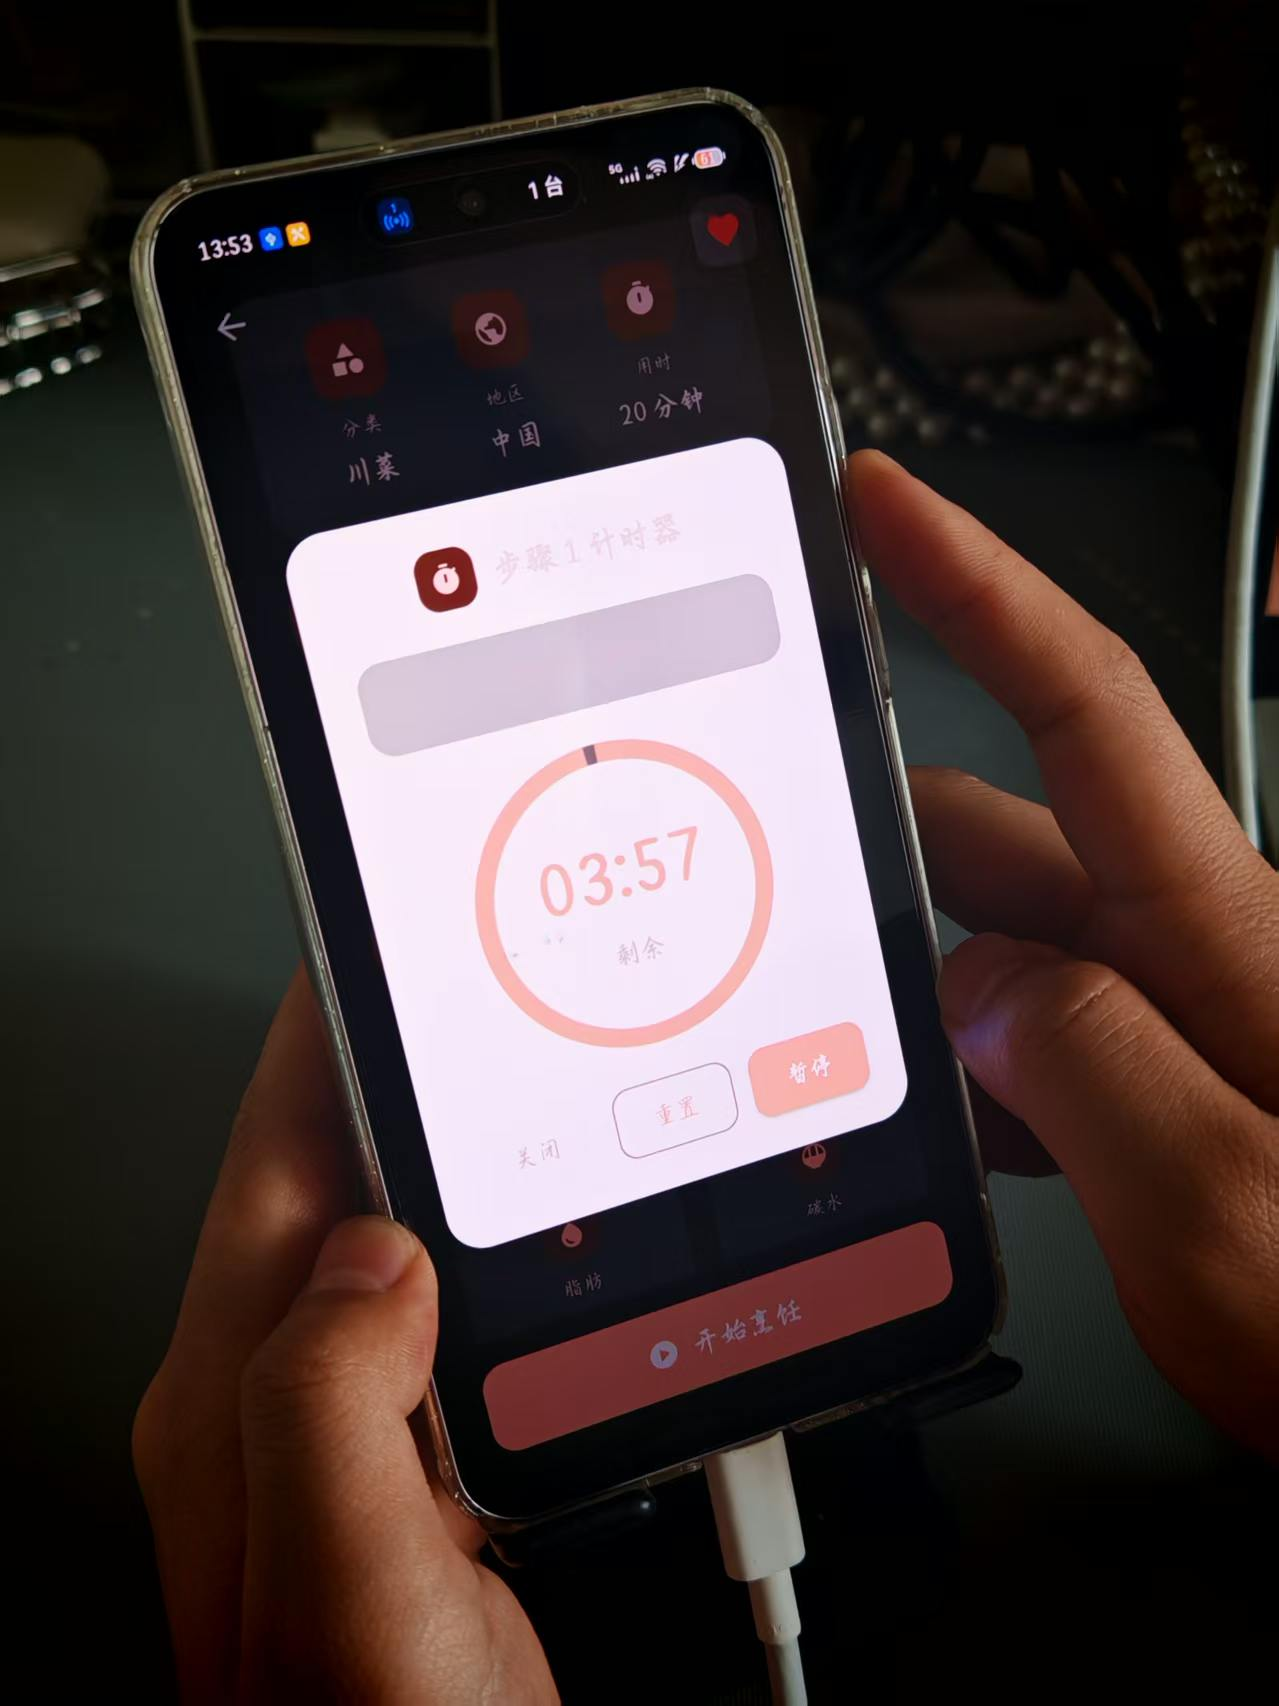
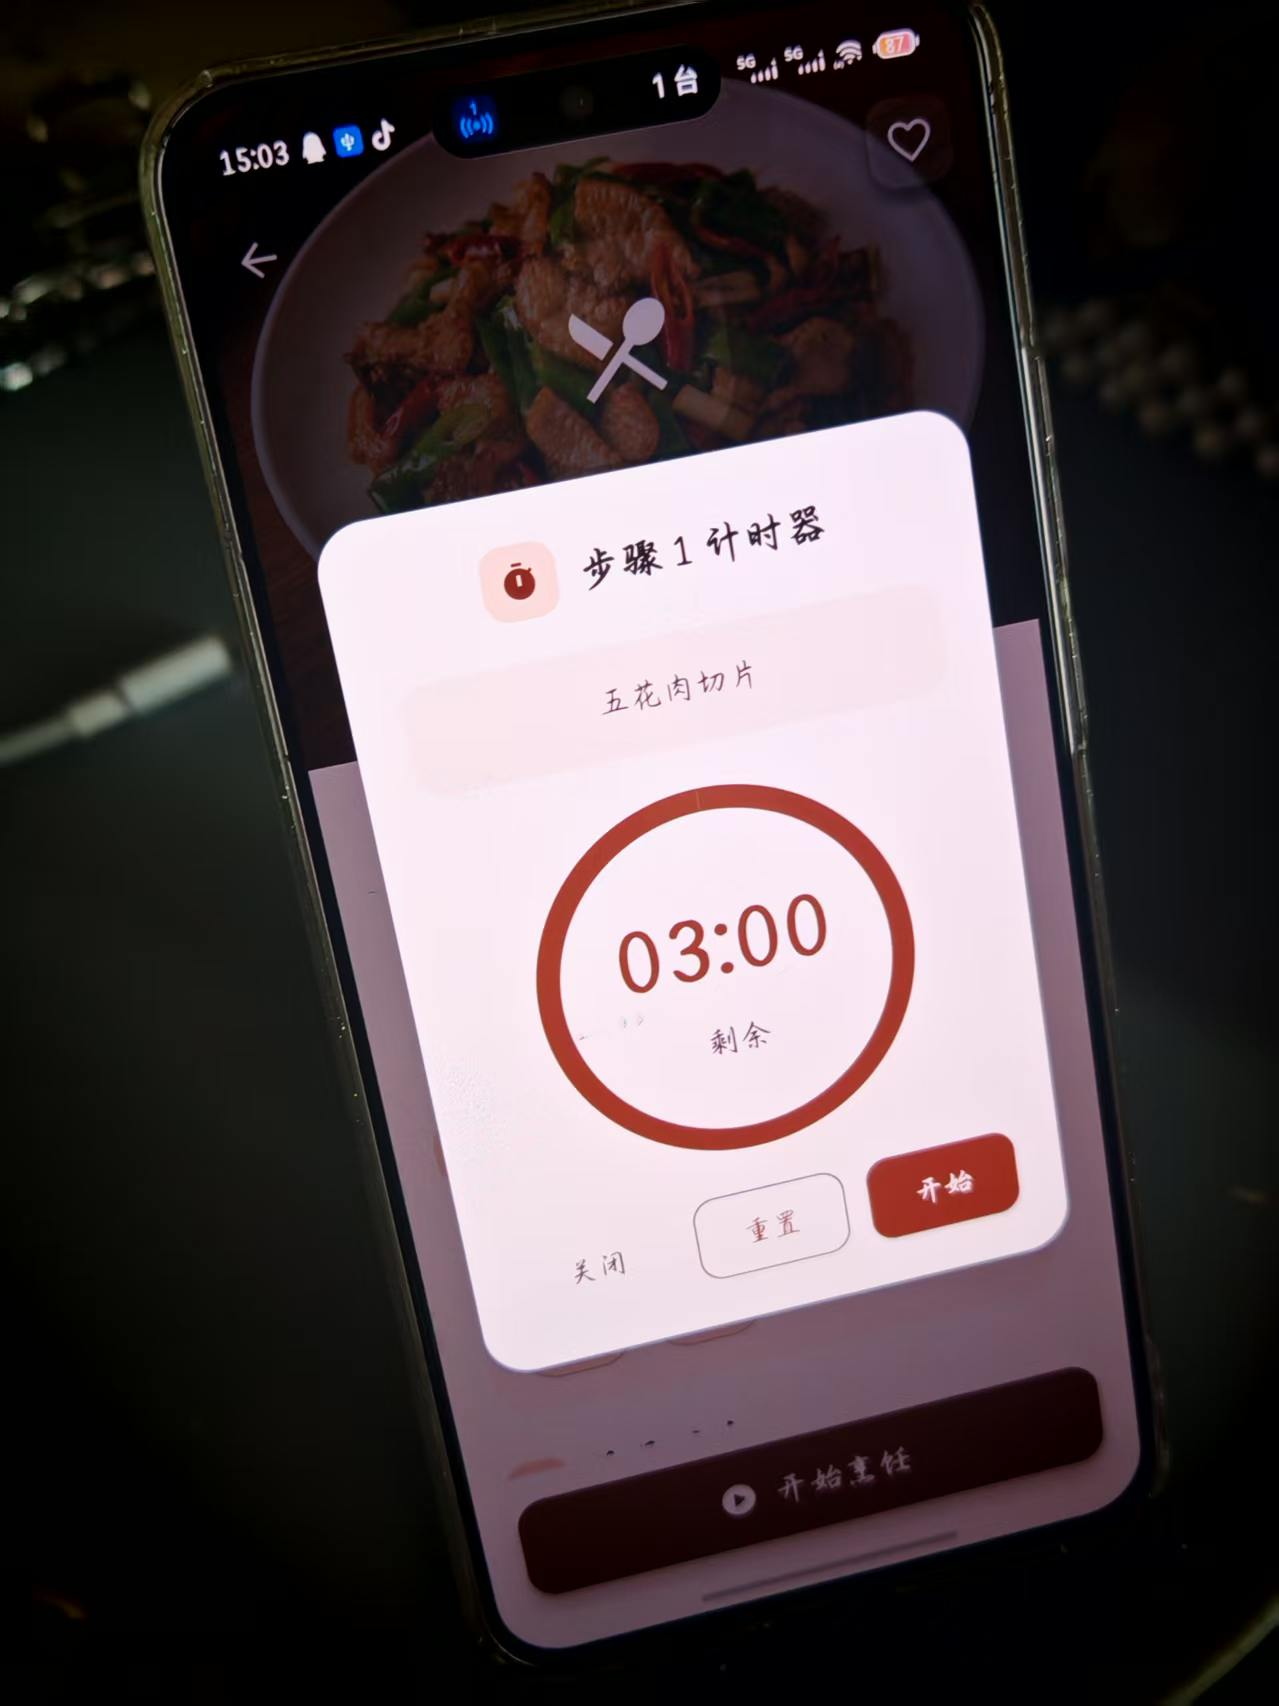
docs: 更新README截图，修复菜谱图片显示问题
- README: 添加菜谱详情页、远程数据加载截图描述
- 更新烹饪计时截图
- 删除旧版web加载远程数据截图
- 修复真机模式下远程数据image字段为空时图片不显示的问题：自动回退本地数据
- 组员F杨顺粉贡献

diff --git a/lib/services/data_service.dart b/lib/services/data_service.dart
@@ -45,7 +45,7 @@ class DataService {
         return _loadLocalData();
       }
     } else {
-      // 真机模式：直连 Gitee
+      // 真机模式：直连 Gitee，如果远程数据缺少 image 字段则回退本地
       final String url = _giteeRawUrl;
       try {
         final response = await _dio.get(url);
@@ -53,8 +53,14 @@ class DataService {
             ? jsonDecode(response.data as String)
             : response.data;
         final List<dynamic> mealsJson = data['meals'];
-        print('远程数据加载成功，共 ${mealsJson.length} 条菜谱');
-        return mealsJson.map((json) => Meal.fromJson(json)).toList();
+        // 检查第一条数据是否有 image 字段
+        if (mealsJson.isNotEmpty && mealsJson[0]['image'] != null && mealsJson[0]['image'].toString().trim().isNotEmpty) {
+          print('远程数据加载成功（含图片），共 ${mealsJson.length} 条菜谱');
+          return mealsJson.map((json) => Meal.fromJson(json)).toList();
+        } else {
+          print('远程数据缺少 image 字段，使用本地数据');
+          return _loadLocalData();
+        }
       } on DioException catch (e) {
         print('远程数据加载失败: ${e.message}，尝试使用本地数据');
         return _loadLocalData();

diff --git a/README.md b/README.md
@@ -167,6 +167,16 @@ flutter run -d <device_id>
 
 收藏夹管理，一键取消收藏，空状态友好提示。
 
+### ⏱️ 菜谱详情 
+![菜谱详情](images/菜谱详情页.jpg)
+
+菜品展示和食材介绍
+
+### ⏱️ 远程数据加载
+![数据加载](images/远程数据加载.png)
+
+远程数据加载截图
+
 ### ⏱️ 烹饪计时 — 步骤级精准计时
 ![烹饪计时](images/烹饪计时.jpg)
 